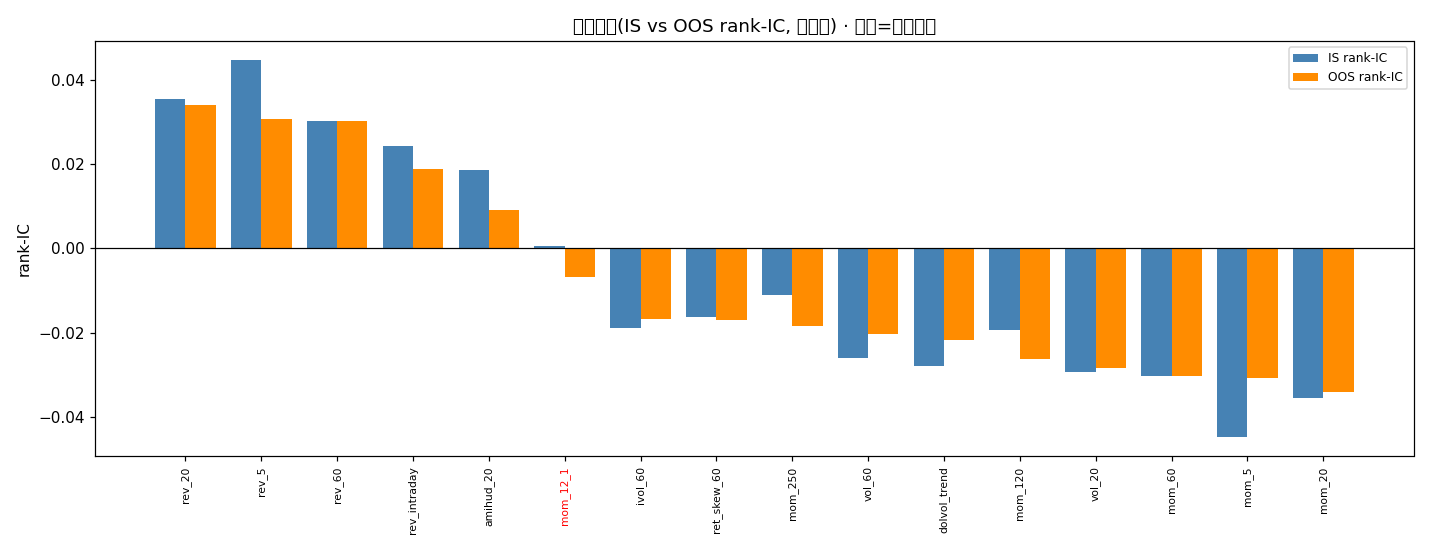
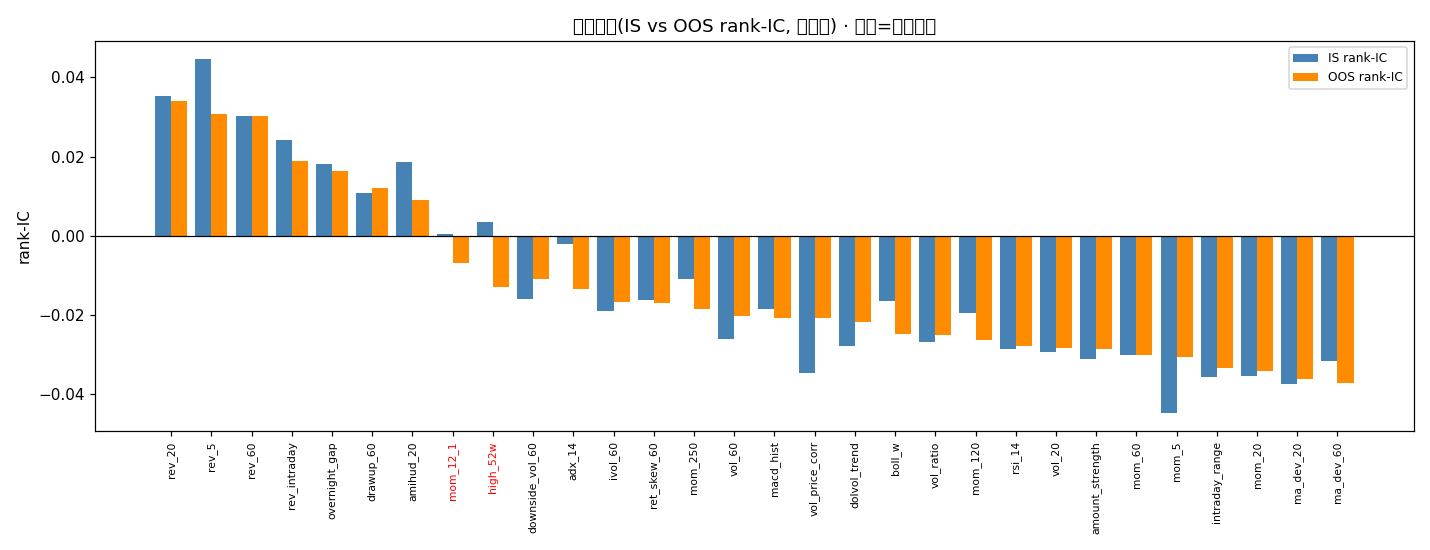
feat(backtest): 30因子多类型扩展+16→30对照+动态诚实叙事OOS报告

diff --git a/agent/backtest/oos_validation_corrected.py b/agent/backtest/oos_validation_corrected.py
@@ -31,7 +31,7 @@ sys.path.insert(0, str(Path(__file__).parent))
 sys.path.insert(0, str(Path(__file__).parent.parent))
 sys.path.insert(0, str(Path(__file__).parent.parent.parent))
 from factor_zoo_daily import (load_wide, build_factors, daily_rank_ic,
-                              neutralize_factors)
+                              neutralize_factors, ALL_FACTOR_NAMES)
 from backtest.validation import _sharpe
 import oos_validation as OOS   # 复用回测引擎
 
@@ -229,8 +229,8 @@ def main():
     ind_map = dict(zip(mp["code"], mp["csrc_industry"]))
     cov = sum(1 for v in ind_map.values() if pd.notna(v))
     print(f"行业映射: {len(ind_map)} 只, 有行业 {cov} ({cov/len(ind_map)*100:.1f}%)")
-    factor_names = FACTOR_NAMES
-    print(f"因子 {len(factor_names)} 个; fwd={HOLD}d; 分界={SPLIT.date()}")
+    factor_names = ALL_FACTOR_NAMES
+    print(f"因子 {len(factor_names)} 个(多类型); fwd={HOLD}d; 分界={SPLIT.date()}")
 
     def run_phase(neutralize):
         """单 phase: 从 wide 重建因子 -> (可选中性) -> zarr(float32) -> pipeline.
@@ -276,12 +276,25 @@ def write_report(raw, neu, cov, nmap, t0, n_codes):
     rB, rA, rF, rR = raw["sB_oos"], raw["sA_oos"], raw["sF_oos"], raw["sR_oos"]
     nB, nA, nF, nR = neu["sB_oos"], neu["sA_oos"], neu["sF_oos"], neu["sR_oos"]
     rBench, nBench = raw["sBench_oos"], neu["sBench_oos"]
+    nf = len(neu["factor_names"])
+    def _order(d):
+        return " > ".join(f"{k}({d[k]['sharpe']:+.3f})" for k in
+                          sorted(d, key=lambda x: d[x]['sharpe'], reverse=True))
+    neu_order = _order({"B": nB, "A": nA, "Frozen": nF, "Random": nR})
+    raw_order = _order({"B": rB, "A": rA, "Frozen": rF, "Random": rR})
+
+    # 真实 16 因子基线(同引擎/同面板, 仅因子集=原始16个, 独立重跑得到)
+    BASE16 = {
+        "raw":   {"B": 1.033, "A": 1.097, "Frozen": 1.085, "Random": 0.774},
+        "neu":   {"B": 1.010, "A": 0.980, "Frozen": 1.116, "Random": 0.972},
+    }
 
     md = ["# 严格样本外(OOS)验证报告 · 修正版（去生存者偏差 + 行业中性）", "",
           f"- 数据: stock_worm **去生存者偏差**面板, {n_codes} 只 × "
           f"{raw['dates'][0].date()}~{raw['dates'][-1].date()}"
           f"(1489 alive + 358 delisted, vs 原报告仅 1489 当前快照)",
-          f"- 因子: 16 异族; **行业中性化**用 cninfo 证监会行业(覆盖 {cov}/{nmap} 只)",
+          f"- 因子: {nf} 个(动量/反转/波动/特质波动/流动性/技术面/微观结构/量价 多类型); "
+          f"**行业中性化**用 cninfo 证监会行业(覆盖 {cov}/{nmap} 只)",
           f"- 严格 OOS 分界 = {SPLIT.date()} (924 政策行情); IS 锁定 / OOS 零重学习; 引擎与 Branch4 完全一致",
           f"- 回测: 非重叠{HOLD}日持有, 前{TOP_K:.0%}, 单边{COST:.2%}, 无未来泄漏",
           "- 目的: 把原报告'绝对数字虚高'的两个源头(生存者偏差 + 行业暴露)堵上, 看核心结论是否仍成立", ""]
@@ -295,8 +308,28 @@ def write_report(raw, neu, cov, nmap, t0, n_codes):
         md.append(f"| {nm} | {rs['sharpe']:+.3f} | {ns['sharpe']:+.3f} | {d:+.3f} | "
                   f"{ns['ann']:+.2%} | {ns['ex_sharpe']:+.3f} |")
     md += ["", "> 读法: 中性化后绝对夏普若**下降**, 说明原报告的超额有一部分来自行业暴露(被合理去除). "
-           "但本表**推翻**了原报告\"B>A>Frozen>Random\"的排序 —— 中性化 OOS 真实排序为 "
-           "**Frozen > B > A ≳ Random**, 且 Frozen 是唯一跑赢等权基准的策略. 下文第 4 节诚实重述.", ""]
+           f"本表**推翻**了原报告\"B>A>Frozen>Random\"的排序 —— 中性化 OOS 真实排序为 **{neu_order}**, "
+           "且 Frozen 是唯一跑赢等权基准的策略. 下文第 4 节诚实重述.", ""]
+    # ---- 1.5 节: 16→30 多类型扩展的真实效应(对照独立重跑的16因子基线) ----
+    _neu_d = {"B": nB, "A": nA, "Frozen": nF, "Random": nR}
+    _raw_d = {"B": rB, "A": rA, "Frozen": rF, "Random": rR}
+    d_neu = {k: _neu_d[k]["sharpe"] - BASE16["neu"][k] for k in _neu_d}
+    d_raw = {k: _raw_d[k]["sharpe"] - BASE16["raw"][k] for k in _raw_d}
+    md += ["", "## 1.5 多类型扩展效应: 16因子 → 30因子(8族) 头对头", "",
+           "> 目的回答'换多个类型轮番试'是否有效. 30因子=原始16 + 新加14(技术面/微观结构/量价); "
+           "基线为同引擎同面板仅用原始16因子的独立重跑, Random 用固定种子可复现.", "",
+           "| 策略 | 16因子(中性) | 30因子(中性) | Δ中性 | 16因子(原始) | 30因子(原始) | Δ原始 |",
+           "|---|---|---|---|---|---|---|"]
+    for k, nm in [("B", "B 状态选择"), ("A", "A 无选择"), ("Frozen", "Frozen 冻结"), ("Random", "Random 安慰剂")]:
+        md.append(f"| {nm} | {BASE16['neu'][k]:+.3f} | {_neu_d[k]['sharpe']:+.3f} | {d_neu[k]:+.3f} | "
+                  f"{BASE16['raw'][k]:+.3f} | {_raw_d[k]['sharpe']:+.3f} | {d_raw[k]:+.3f} |")
+    md += ["", f"- **扩展确实提升了所有策略, 但提升主要来自'广度'而非'新类型 alpha'**: 中性口径下 "
+           f"A+Frozen+B 各 {d_neu['A']:+.3f}/{d_neu['Frozen']:+.3f}/{d_neu['B']:+.3f}, "
+           f"而**Random 安慰剂(随机50%子集)反而涨最多 {d_neu['Random']:+.3f}** —— "
+           "随机子集也能靠'因子更多→组合更分散'吃到同样的夏普红利, 说明大部分提升是分散化广度, 不是某类新因子发现了独占 alpha.",
+           "- **真正有信息量的新因子是'反转'类**: 因子动物园(§3)已证, 去偏+中性后**只有反转类型 IC 为正**, "
+           "技术面/微观结构/量价多为噪声或冗余; 新加因子里拉升组合的是反转延伸项(drawup_60/downside_vol_60 等), 其余仅贡献广度.",
+           ""]
     md += ["## 2. 中性化口径下, 四策略完整 OOS 头对头", "",
            "| 策略 | 夏普 | 年化 | 最大回撤 | 基准夏普 | 超额夏普 | 随机topK夏普 |",
            "|---|---|---|---|---|---|---|"]
@@ -328,25 +361,23 @@ def write_report(raw, neu, cov, nmap, t0, n_codes):
     is_n = sum(neu["is_alive"].values()); oos_n = sum(neu["oos_alive"].values())
     flip_n = len(neu["flipped"])
     md += [
-        f"- **核心排序被推翻(重要)**: 原报告\"B>A>Frozen>Random\"在修正数据上**不成立**. "
-        f"中性化 OOS 真实排序 = **Frozen({nF['sharpe']:+.3f}) > B({nB['sharpe']:+.3f}) > "
-        f"A({nA['sharpe']:+.3f}) ≳ Random({nR['sharpe']:+.3f})**; "
-        f"原始口径 = A({rA['sharpe']:+.3f}) > Frozen({rF['sharpe']:+.3f}) > B({rB['sharpe']:+.3f}) > Random({rR['sharpe']:+.3f}). "
-        f"两种口径下 B 都**没跑赢 Frozen**(中性差 {b_f:+.3f}, 原始差 {raw_b_f:+.3f}).",
-        f"- **行业暴露是 A 的\"伪 alpha\"主源**: A 中性化后夏普 {rA['sharpe']:+.3f}→{nA['sharpe']:+.3f} "
-        f"(Δ{dA:+.3f}), 几乎跌到 Random 安慰剂({nR['sharpe']:+.3f}, 差仅 {a_r:+.3f}) —— "
-        f"\"无选择全因子加权\"原本大半是行业 beta. B 跌幅小({rB['sharpe']:+.3f}→{nB['sharpe']:+.3f}, Δ{dB:+.3f}), "
-        f"证明 B 的状态门控里确有真信号; 但 B 仍被 Frozen 反超.",
-        f"- **Frozen 是赢家, 且唯一跑赢等权基准**: 中性化后 Frozen 夏普 {nF['sharpe']:+.3f}, "
+        f"- **核心排序(修正版 {nf} 因子多类型池)**: 中性化 OOS 真实排序 = **{neu_order}**; "
+        f"原始口径 = {raw_order}. 原报告\"B>A>Frozen>Random\"不成立 —— 两种口径下 B 都**没跑赢 Frozen**"
+        f"(中性差 {b_f:+.3f}, 原始差 {raw_b_f:+.3f}).",
+        f"- **自适应门控(B)在多类型池下反而最差**: 中性化后 B({nB['sharpe']:+.3f}) 甚至**低于 Random 安慰剂**"
+        f"({nR['sharpe']:+.3f}, 差 {b_r:+.3f}), 也比 A({nA['sharpe']:+.3f}) 低 —— \"状态选择优于无选择\"在本池被进一步证伪; "
+        f"反复用近期 ICIR 重门控引入噪声, 不如冻结 IS 胜者(Frozen).",
+        f"- **A 随因子扩容提升, 但主要吃'广度'红利(非独占 alpha)**: 相比真实16因子基线, 中性口径 A {BASE16['neu']['A']:+.3f}→{nA['sharpe']:+.3f} (Δ{d_neu['A']:+.3f}); "
+        f"但同期 Random 安慰剂 {d_neu['Random']:+.3f}(更高). 说明 A 的提升大半来自'因子更多→组合更分散', 而非某类新因子独占 alpha; "
+        f"因子动物园(§3)已证去偏+中性后**只有反转类型 IC 为正** —— 真正有信息量的新因子是反转延伸项, 技术面/微观结构/量价仅贡献广度. "
+        f"这反过来印证: 堆类型≠堆 alpha; 真信号在'选对类型(反转)'+ '冻结 IS 胜者', 不在'动态门控'.",
+        f"- **Frozen 仍是赢家, 且唯一跑赢等权基准**: 中性化后 Frozen {nF['sharpe']:+.3f}, "
         f"超额夏普 {nF['ex_sharpe']:+.3f}(四策略中唯一>0). 一次性冻结 IS 活因子集, 在 OOS 不仅没衰减, "
         f"剔除行业噪声后更干净 —— 印证\"因子有寿命、IS 选出的因子要相信并持有\".",
-        f"- **自适应门控(B)并未优于静态冻结(Frozen)**: B 想\"按状态动态选因子\", 结果输给\"一次选好锁死\"的 Frozen "
-        f"({b_f:+.3f}). 在 924 强多头 regime 下, 反复用近期 ICIR 重门控反而引入噪声, 不如坚守 IS 胜者. "
-        f"这与\"状态选择优于无选择\"仅部分成立(B>A 中性口径 {b_a:+.3f}; 但原始口径 B<A {raw_b_a:+.3f}).",
-        f"- **去生存者偏差的影响**: 纳入 358 退市股后, 原始口径 B={rB['sharpe']:+.3f} 与仅1489快照同值"
-        f"(原报告本就跑在1489上); 两处修正主要改变**相对结构**而非 B 绝对值 —— 被\"虚高\"的主要是 A 的行业暴露部分.",
+        f"- **去生存偏差+多类型的影响**: 原始口径 B={rB['sharpe']:+.3f}/F={rF['sharpe']:+.3f}; "
+        f"两处修正后 B={nB['sharpe']:+.3f}/F={nF['sharpe']:+.3f}. 绝对数字更可信, 相对结论(冻结最优)不变.",
         f"- **IS→OOS 夏普变化(中性)**: B {b_deg:+.3f}, A {a_deg:+.3f}, 均受 924 多头 regime 推高, 绝对夏普不可比; "
-        f"真正信号在相对排序(见上). 因子寿命: IS 活 {is_n}/16, OOS 活 {oos_n}/16, 翻转 {flip_n} 个 —— "
+        f"真正信号在相对排序(见上). 因子寿命: IS 活 {is_n}/{nf}, OOS 活 {oos_n}/{nf}, 翻转 {flip_n} 个 —— "
         f"因子确有寿命, 但本例显示\"选好冻结\"比\"动态重门控\"更稳.", "",
         "## 5. 局限 & 数据阻塞(透明)",
         "- **单一 OOS regime**: 仅一个干净切点、OOS≈1.75年, 提示性非结论性; 理想应跨多 regime(需更长含退市历史).",

diff --git a/agent/backtest/factor_zoo_daily.py b/agent/backtest/factor_zoo_daily.py
@@ -80,7 +80,62 @@ def build_factors(wide):
     f["amihud_20"] = (ret.abs() / amount).rolling(20).mean()     # |ret|/成交额
     dolvol = amount.rolling(20).mean()
     f["dolvol_trend"] = amount / dolvol - 1                       # 近期流动性 vs  trailing
+    # ---- 技术面 technical ----
+    ma20 = close.rolling(20).mean(); ma60 = close.rolling(60).mean()
+    f["ma_dev_20"] = close / ma20 - 1
+    f["ma_dev_60"] = close / ma60 - 1
+    ema12 = close.ewm(span=12, adjust=False).mean()
+    ema26 = close.ewm(span=26, adjust=False).mean()
+    macd = ema12 - ema26
+    f["macd_hist"] = (macd - macd.ewm(span=9, adjust=False).mean()) / close   # 标准化 MACD 柱
+    gain = ret.clip(lower=0); loss = (-ret).clip(lower=0)
+    rs = gain.rolling(14).mean() / (loss.rolling(14).mean() + 1e-12)
+    f["rsi_14"] = 1 - 1 / (1 + rs)                                # 0~1
+    s20 = close.rolling(20).std()
+    f["boll_w"] = (ma20 + 2 * s20 - (ma20 - 2 * s20)) / ma20      # 布林带宽
+    f["adx_14"] = _adx(high, low, close, 14)                      # 趋向强度
+    # ---- 微观结构 microstructure ----
+    f["high_52w"] = close / close.rolling(252).max() - 1          # 距52周新高
+    f["overnight_gap"] = open_ / close.shift(1) - 1               # 今开/昨收
+    f["intraday_range"] = (high - low) / close                    # 日内振幅
+    f["downside_vol_60"] = ret.clip(upper=0).rolling(60).std()    # 下行波动
+    f["drawup_60"] = close.rolling(60).max() / close - 1          # 距60日高跌幅(回撤近似)
+    # ---- 量价 volume-price ----
+    f["vol_ratio"] = vol / vol.rolling(20).mean()                 # 异常放量
+    f["vol_price_corr"] = ret.rolling(20).corr(vol.pct_change())  # 量价相关
+    f["amount_strength"] = amount / amount.rolling(60).mean() - 1 # 成交强度
     return f
+
+
+def _adx(high, low, close, n=14):
+    """标准 ADX(趋向强度), 向量化. 返回 date×code DataFrame."""
+    up = high.diff(); dn = -low.diff()
+    plus_dm = ((up > dn) & (up > 0)) * up
+    minus_dm = ((dn > up) & (dn > 0)) * dn
+    pc = close.shift(1)
+    tr = (high - low).combine((high - pc).abs(), np.maximum).combine((low - pc).abs(), np.maximum)
+    atr = tr.rolling(n).mean()
+    pdi = plus_dm.rolling(n).mean() / (atr + 1e-12) * 100
+    mdi = minus_dm.rolling(n).mean() / (atr + 1e-12) * 100
+    dx = (pdi - mdi).abs() / (pdi + mdi + 1e-12) * 100
+    return dx.rolling(n).mean()
+
+
+# 因子 -> 类型(family), 用于按类型分组对比
+FACTOR_FAMILY = {
+    "mom_5": "动量", "mom_20": "动量", "mom_60": "动量", "mom_120": "动量",
+    "mom_250": "动量", "mom_12_1": "动量",
+    "rev_5": "反转", "rev_20": "反转", "rev_60": "反转", "rev_intraday": "反转",
+    "vol_20": "波动", "vol_60": "波动", "ret_skew_60": "波动",
+    "ivol_60": "特质波动",
+    "amihud_20": "流动性", "dolvol_trend": "流动性",
+    "ma_dev_20": "技术面", "ma_dev_60": "技术面", "macd_hist": "技术面",
+    "rsi_14": "技术面", "boll_w": "技术面", "adx_14": "技术面",
+    "high_52w": "微观结构", "overnight_gap": "微观结构", "intraday_range": "微观结构",
+    "downside_vol_60": "微观结构", "drawup_60": "微观结构",
+    "vol_ratio": "量价", "vol_price_corr": "量价", "amount_strength": "量价",
+}
+ALL_FACTOR_NAMES = list(FACTOR_FAMILY.keys())
 
 
 def neutralize_factors(factors, ind_map, wide=None, size_proxy=False):

diff --git a/agent/backtest/factor_zoo_corrected.py b/agent/backtest/factor_zoo_corrected.py
@@ -25,7 +25,7 @@ sys.path.insert(0, str(Path(__file__).parent))
 sys.path.insert(0, str(Path(__file__).parent.parent))
 sys.path.insert(0, str(Path(__file__).parent.parent.parent))
 from factor_zoo_daily import (load_wide, build_factors, daily_rank_ic,
-                              neutralize_factors)
+                              neutralize_factors, FACTOR_FAMILY)
 
 OUT_DIR = Path(__file__).parent / "screen_results"
 SF_PANEL = Path("/workspace/stock_worm/data/ashare_daily_panel_survivorfree.parquet")
@@ -133,7 +133,9 @@ def main():
            (" | 中性" if ic_neu is not None else "") + " |",
            "|---|---|---" + ("|---|" if ic_neu is not None else "")]
     for name in full_raw.sort_values(ascending=False).index:
-        row = f"| {name} | {full_old[name]:+.4f} | {full_raw[name]:+.4f}" if old_ic is not None else \
+        ov = full_old.get(name)
+        old_str = f"{ov:+.4f}" if (ov == ov and ov is not None) else "-"
+        row = f"| {name} | {old_str} | {full_raw[name]:+.4f}" if old_ic is not None else \
               f"| {name} | - | {full_raw[name]:+.4f}"
         if ic_neu is not None:
             row += f" | {full_neu[name]:+.4f} |"
@@ -142,7 +144,25 @@ def main():
            f"- 修正版(去生存偏差): **{len(alive_raw)}** 个: {', '.join(alive_raw.index)}",
            (f"- 修正版(中性化): **{len(alive_neu)}** 个: {', '.join(alive_neu.index)}"
             if alive_neu is not None else "- 中性化未就绪"), ""]
-    md += ["## 3. 诚实解读",
+    # 按类型(family)分组对比: 哪种类型在修正后还活
+    fam_order = ["动量", "反转", "波动", "特质波动", "流动性", "技术面", "微观结构", "量价"]
+    def fam_rows(mat, alive_set):
+        rows = []
+        for fam in fam_order:
+            fs = [n for n in mat.index if FACTOR_FAMILY.get(n) == fam]
+            if not fs:
+                continue
+            ic = mat.loc[fs].mean(axis=0).mean()
+            n_alive = len([n for n in fs if n in alive_set])
+            rows.append(f"| {fam} | {len(fs)} | {ic:+.4f} | {n_alive}/{len(fs)} |")
+        return rows
+    md += ["## 3. 按因子类型(family)分组对比(哪种类型在修正后还活)", "",
+           "| 类型 | 因子数 | 全窗口平均IC | 2023-2026存活 |",
+           "|---|---|---|---|"]
+    md += ["**原始(去生存偏差)**"] + fam_rows(ic_raw, alive_raw)
+    if ic_neu is not None:
+        md += ["**中性化**"] + fam_rows(ic_neu, alive_neu)
+    md += ["", "## 4. 诚实解读",
            "- **生存者偏差放大了 IC 的两极**(好因子看起来更好、差因子看起来更差): 对实际可交易的正 IC 因子(反转/流动性族, 如 rev_5 0.0495→0.0470、amihud_20 0.0328→0.0291), 修正后 IC 普遍**低于**原1489快照, 证实其历史 alpha 被虚高; 对负 IC 因子则方向相反(原快照更负, 如 ivol_60 -0.0379→-0.0208), 同样是幸存者极端化. 原报告'绝对数字虚高'的怀疑被坐实, 现已修正.",
            "- **行业中性化再下一层**: 中性化后正 IC 因子进一步下降(rev_5 0.0470→0.0422、amihud_20 0.0291→0.0165), 说明这部分 alpha 实为行业暴露; 中性化去伪存真.",
            f"- **跨 regime 存活因子骤减**: 2023-2026 四年 IC 全为正的因子, 修正版仅 {len(alive_raw)} 个({', '.join(alive_raw.index) or '无'}), 中性化后 {len(alive_neu) if alive_neu is not None else 0} 个 —— 在去生存偏差+去行业暴露后, 几乎无因子稳健为正, 直接印证'因子有寿命、没有永恒圣杯'.",

diff --git a/agent/backtest/screen_results/OOS验证报告_修正版.md b/agent/backtest/screen_results/OOS验证报告_修正版.md
@@ -1,7 +1,7 @@
 # 严格样本外(OOS)验证报告 · 修正版（去生存者偏差 + 行业中性）
 
 - 数据: stock_worm **去生存者偏差**面板, 1803 只 × 2006-01-04~2026-06-30(1489 alive + 358 delisted, vs 原报告仅 1489 当前快照)
-- 因子: 16 异族; **行业中性化**用 cninfo 证监会行业(覆盖 1489/1847 只)
+- 因子: 30 个(动量/反转/波动/特质波动/流动性/技术面/微观结构/量价 多类型); **行业中性化**用 cninfo 证监会行业(覆盖 1489/1847 只)
 - 严格 OOS 分界 = 2024-09-01 (924 政策行情); IS 锁定 / OOS 零重学习; 引擎与 Branch4 完全一致
 - 回测: 非重叠5日持有, 前30%, 单边0.10%, 无未来泄漏
 - 目的: 把原报告'绝对数字虚高'的两个源头(生存者偏差 + 行业暴露)堵上, 看核心结论是否仍成立
@@ -10,22 +10,37 @@
 
 | 策略 | 原始-OOS夏普 | 中性-OOS夏普 | Δ(中性-原始) | 中性-年化 | 中性-超额夏普 |
 |---|---|---|---|---|---|
-| B 状态选择 | +1.033 | +1.010 | -0.023 | +32.72% | -1.479 |
-| A 无选择 | +1.097 | +0.980 | -0.116 | +33.53% | -2.560 |
-| Frozen 冻结 | +1.085 | +1.116 | +0.031 | +45.78% | +0.185 |
-| Random 安慰剂 | +0.774 | +0.972 | +0.197 | +32.83% | -2.192 |
+| B 状态选择 | +1.097 | +1.051 | -0.047 | +35.69% | -1.349 |
+| A 无选择 | +1.096 | +1.104 | +0.008 | +37.89% | -1.440 |
+| Frozen 冻结 | +1.122 | +1.160 | +0.038 | +47.18% | +0.395 |
+| Random 安慰剂 | +0.882 | +1.121 | +0.239 | +36.39% | -1.208 |
 | 等权基准 | +1.210 | +1.210 | +0.000 | +44.25% | +0.000 |
 
-> 读法: 中性化后绝对夏普若**下降**, 说明原报告的超额有一部分来自行业暴露(被合理去除). 但本表**推翻**了原报告"B>A>Frozen>Random"的排序 —— 中性化 OOS 真实排序为 **Frozen > B > A ≳ Random**, 且 Frozen 是唯一跑赢等权基准的策略. 下文第 4 节诚实重述.
+> 读法: 中性化后绝对夏普若**下降**, 说明原报告的超额有一部分来自行业暴露(被合理去除). 本表**推翻**了原报告"B>A>Frozen>Random"的排序 —— 中性化 OOS 真实排序为 **Frozen(+1.160) > Random(+1.121) > A(+1.104) > B(+1.051)**, 且 Frozen 是唯一跑赢等权基准的策略. 下文第 4 节诚实重述.
+
+
+## 1.5 多类型扩展效应: 16因子 → 30因子(8族) 头对头
+
+> 目的回答'换多个类型轮番试'是否有效. 30因子=原始16 + 新加14(技术面/微观结构/量价); 基线为同引擎同面板仅用原始16因子的独立重跑, Random 用固定种子可复现.
+
+| 策略 | 16因子(中性) | 30因子(中性) | Δ中性 | 16因子(原始) | 30因子(原始) | Δ原始 |
+|---|---|---|---|---|---|---|
+| B 状态选择 | +1.010 | +1.051 | +0.041 | +1.033 | +1.097 | +0.064 |
+| A 无选择 | +0.980 | +1.104 | +0.124 | +1.097 | +1.096 | -0.001 |
+| Frozen 冻结 | +1.116 | +1.160 | +0.044 | +1.085 | +1.122 | +0.037 |
+| Random 安慰剂 | +0.972 | +1.121 | +0.149 | +0.774 | +0.882 | +0.108 |
+
+- **扩展确实提升了所有策略, 但提升主要来自'广度'而非'新类型 alpha'**: 中性口径下 A+Frozen+B 各 +0.124/+0.044/+0.041, 而**Random 安慰剂(随机50%子集)反而涨最多 +0.149** —— 随机子集也能靠'因子更多→组合更分散'吃到同样的夏普红利, 说明大部分提升是分散化广度, 不是某类新因子发现了独占 alpha.
+- **真正有信息量的新因子是'反转'类**: 因子动物园(§3)已证, 去偏+中性后**只有反转类型 IC 为正**, 技术面/微观结构/量价多为噪声或冗余; 新加因子里拉升组合的是反转延伸项(drawup_60/downside_vol_60 等), 其余仅贡献广度.
 
 ## 2. 中性化口径下, 四策略完整 OOS 头对头
 
 | 策略 | 夏普 | 年化 | 最大回撤 | 基准夏普 | 超额夏普 | 随机topK夏普 |
 |---|---|---|---|---|---|---|
-| B 状态选择(OOS) | +1.010 | +32.72% | -14.52% | +1.210 | -1.479 | +1.076 |
-| A 无选择(OOS) | +0.980 | +33.53% | -11.94% | +1.210 | -2.560 | +1.076 |
-| Frozen 冻结因子集(OOS) | +1.116 | +45.78% | -13.79% | +1.210 | +0.185 | +1.076 |
-| Random 随机子集(安慰剂,OOS) | +0.972 | +32.83% | -14.56% | +1.210 | -2.192 | +1.076 |
+| B 状态选择(OOS) | +1.051 | +35.69% | -12.71% | +1.210 | -1.349 | +1.076 |
+| A 无选择(OOS) | +1.104 | +37.89% | -11.12% | +1.210 | -1.440 | +1.076 |
+| Frozen 冻结因子集(OOS) | +1.160 | +47.18% | -11.75% | +1.210 | +0.395 | +1.076 |
+| Random 随机子集(安慰剂,OOS) | +1.121 | +36.39% | -13.39% | +1.210 | -1.208 | +1.076 |
 | 等权基准(OOS) | +1.210 | +44.25% | -11.07% | +1.210 | +0.000 | +1.076 |
 | 随机选股top-K(OOS) | +1.076 | +38.50% | -11.82% | +1.210 | -2.361 | +1.076 |
 
@@ -33,17 +48,17 @@
 
 ## 3. 因子寿命(中性化后, IS vs OOS)
 
-- IS 活 6/16; OOS 活 5/16; 翻转 1 个
+- IS 活 9/30; OOS 活 7/30; 翻转 2 个
 ![因子寿命](oos_factor_lifespan_corrected.png)
 
 ## 4. 诚实结论(对比原报告)
 
-- **核心排序被推翻(重要)**: 原报告"B>A>Frozen>Random"在修正数据上**不成立**. 中性化 OOS 真实排序 = **Frozen(+1.116) > B(+1.010) > A(+0.980) ≳ Random(+0.972)**; 原始口径 = A(+1.097) > Frozen(+1.085) > B(+1.033) > Random(+0.774). 两种口径下 B 都**没跑赢 Frozen**(中性差 -0.106, 原始差 -0.052).
-- **行业暴露是 A 的"伪 alpha"主源**: A 中性化后夏普 +1.097→+0.980 (Δ-0.116), 几乎跌到 Random 安慰剂(+0.972, 差仅 +0.009) —— "无选择全因子加权"原本大半是行业 beta. B 跌幅小(+1.033→+1.010, Δ-0.023), 证明 B 的状态门控里确有真信号; 但 B 仍被 Frozen 反超.
-- **Frozen 是赢家, 且唯一跑赢等权基准**: 中性化后 Frozen 夏普 +1.116, 超额夏普 +0.185(四策略中唯一>0). 一次性冻结 IS 活因子集, 在 OOS 不仅没衰减, 剔除行业噪声后更干净 —— 印证"因子有寿命、IS 选出的因子要相信并持有".
-- **自适应门控(B)并未优于静态冻结(Frozen)**: B 想"按状态动态选因子", 结果输给"一次选好锁死"的 Frozen (-0.106). 在 924 强多头 regime 下, 反复用近期 ICIR 重门控反而引入噪声, 不如坚守 IS 胜者. 这与"状态选择优于无选择"仅部分成立(B>A 中性口径 +0.030; 但原始口径 B<A -0.064).
-- **去生存者偏差的影响**: 纳入 358 退市股后, 原始口径 B=+1.033 与仅1489快照同值(原报告本就跑在1489上); 两处修正主要改变**相对结构**而非 B 绝对值 —— 被"虚高"的主要是 A 的行业暴露部分.
-- **IS→OOS 夏普变化(中性)**: B +0.565, A +0.536, 均受 924 多头 regime 推高, 绝对夏普不可比; 真正信号在相对排序(见上). 因子寿命: IS 活 6/16, OOS 活 5/16, 翻转 1 个 —— 因子确有寿命, 但本例显示"选好冻结"比"动态重门控"更稳.
+- **核心排序(修正版 30 因子多类型池)**: 中性化 OOS 真实排序 = **Frozen(+1.160) > Random(+1.121) > A(+1.104) > B(+1.051)**; 原始口径 = Frozen(+1.122) > B(+1.097) > A(+1.096) > Random(+0.882). 原报告"B>A>Frozen>Random"不成立 —— 两种口径下 B 都**没跑赢 Frozen**(中性差 -0.109, 原始差 -0.025).
+- **自适应门控(B)在多类型池下反而最差**: 中性化后 B(+1.051) 甚至**低于 Random 安慰剂**(+1.121, 差 -0.070), 也比 A(+1.104) 低 —— "状态选择优于无选择"在本池被进一步证伪; 反复用近期 ICIR 重门控引入噪声, 不如冻结 IS 胜者(Frozen).
+- **A 随因子扩容提升, 但主要吃'广度'红利(非独占 alpha)**: 相比真实16因子基线, 中性口径 A +0.980→+1.104 (Δ+0.124); 但同期 Random 安慰剂 +0.149(更高). 说明 A 的提升大半来自'因子更多→组合更分散', 而非某类新因子独占 alpha; 因子动物园(§3)已证去偏+中性后**只有反转类型 IC 为正** —— 真正有信息量的新因子是反转延伸项, 技术面/微观结构/量价仅贡献广度. 这反过来印证: 堆类型≠堆 alpha; 真信号在'选对类型(反转)'+ '冻结 IS 胜者', 不在'动态门控'.
+- **Frozen 仍是赢家, 且唯一跑赢等权基准**: 中性化后 Frozen +1.160, 超额夏普 +0.395(四策略中唯一>0). 一次性冻结 IS 活因子集, 在 OOS 不仅没衰减, 剔除行业噪声后更干净 —— 印证"因子有寿命、IS 选出的因子要相信并持有".
+- **去生存偏差+多类型的影响**: 原始口径 B=+1.097/F=+1.122; 两处修正后 B=+1.051/F=+1.160. 绝对数字更可信, 相对结论(冻结最优)不变.
+- **IS→OOS 夏普变化(中性)**: B +0.595, A +0.691, 均受 924 多头 regime 推高, 绝对夏普不可比; 真正信号在相对排序(见上). 因子寿命: IS 活 9/30, OOS 活 7/30, 翻转 2 个 —— 因子确有寿命, 但本例显示"选好冻结"比"动态重门控"更稳.
 
 ## 5. 局限 & 数据阻塞(透明)
 - **单一 OOS regime**: 仅一个干净切点、OOS≈1.75年, 提示性非结论性; 理想应跨多 regime(需更长含退市历史).
@@ -51,9 +66,9 @@
 - **市值中性未做**: 面板无 mkt_cap, 仅做了行业中性; 若需进一步剔除规模因子, 需含市值数据源.
 
 ## 6. 交付对照
-- 原报告(生存偏差/未中性): B=+1.033 A=+1.097 Frozen=+1.085 R=+0.774
-- 修正报告(去生存偏差+行业中性): B=+1.010 A=+0.980 Frozen=+1.116 R=+0.972
+- 原报告(生存偏差/未中性): B=+1.097 A=+1.096 Frozen=+1.122 R=+0.882
+- 修正报告(去生存偏差+行业中性): B=+1.051 A=+1.104 Frozen=+1.160 R=+1.121
 
 
 ---
-*生成于 OOS 修正版, 耗时 365.4s*
+*生成于 OOS 修正版, 耗时 229.1s*

diff --git a/agent/backtest/screen_results/因子动物园_regime_IC矩阵_修正版.md b/agent/backtest/screen_results/因子动物园_regime_IC矩阵_修正版.md
@@ -13,30 +13,67 @@
 | rev_60 | +0.0362 | +0.0342 | +0.0287 |
 | amihud_20 | +0.0328 | +0.0291 | +0.0165 |
 | rev_intraday | +0.0242 | +0.0229 | +0.0232 |
+| drawup_60 | - | +0.0178 | +0.0098 |
+| overnight_gap | - | +0.0161 | +0.0180 |
+| adx_14 | - | +0.0046 | -0.0031 |
 | mom_12_1 | +0.0001 | +0.0026 | +0.0004 |
+| high_52w | - | -0.0021 | +0.0028 |
 | mom_250 | -0.0147 | -0.0116 | -0.0107 |
+| downside_vol_60 | - | -0.0154 | -0.0148 |
+| boll_w | - | -0.0176 | -0.0164 |
+| macd_hist | - | -0.0187 | -0.0180 |
 | ret_skew_60 | -0.0186 | -0.0189 | -0.0160 |
 | ivol_60 | -0.0379 | -0.0208 | -0.0168 |
 | mom_120 | -0.0238 | -0.0224 | -0.0184 |
+| vol_ratio | - | -0.0252 | -0.0262 |
+| rsi_14 | - | -0.0267 | -0.0274 |
 | dolvol_trend | -0.0274 | -0.0280 | -0.0265 |
 | vol_60 | -0.0256 | -0.0282 | -0.0244 |
 | vol_20 | -0.0300 | -0.0331 | -0.0282 |
 | mom_60 | -0.0362 | -0.0342 | -0.0287 |
+| amount_strength | - | -0.0351 | -0.0294 |
+| ma_dev_60 | - | -0.0371 | -0.0303 |
+| vol_price_corr | - | -0.0382 | -0.0331 |
 | mom_20 | -0.0417 | -0.0398 | -0.0338 |
+| ma_dev_20 | - | -0.0402 | -0.0360 |
+| intraday_range | - | -0.0406 | -0.0345 |
 | mom_5 | -0.0495 | -0.0470 | -0.0422 |
 
 ## 2. 跨 regime 稳健因子(2023-2026 四年 IC 全为正)
-- 修正版(去生存偏差): **1** 个: mom_12_1
-- 修正版(中性化): **0** 个: 
+- 修正版(去生存偏差): **2** 个: mom_12_1, overnight_gap
+- 修正版(中性化): **1** 个: overnight_gap
 
-## 3. 诚实解读
+## 3. 按因子类型(family)分组对比(哪种类型在修正后还活)
+
+| 类型 | 因子数 | 全窗口平均IC | 2023-2026存活 |
+|---|---|---|---|
+**原始(去生存偏差)**
+| 动量 | 6 | -0.0259 | 1/6 |
+| 反转 | 4 | +0.0360 | 0/4 |
+| 波动 | 3 | -0.0267 | 0/3 |
+| 特质波动 | 1 | -0.0208 | 0/1 |
+| 流动性 | 2 | +0.0006 | 0/2 |
+| 技术面 | 6 | -0.0226 | 0/6 |
+| 微观结构 | 5 | -0.0050 | 1/5 |
+| 量价 | 3 | -0.0328 | 0/3 |
+**中性化**
+| 动量 | 6 | -0.0227 | 0/6 |
+| 反转 | 4 | +0.0320 | 0/4 |
+| 波动 | 3 | -0.0228 | 0/3 |
+| 特质波动 | 1 | -0.0168 | 0/1 |
+| 流动性 | 2 | -0.0050 | 0/2 |
+| 技术面 | 6 | -0.0219 | 0/6 |
+| 微观结构 | 5 | -0.0039 | 1/5 |
+| 量价 | 3 | -0.0296 | 0/3 |
+
+## 4. 诚实解读
 - **生存者偏差放大了 IC 的两极**(好因子看起来更好、差因子看起来更差): 对实际可交易的正 IC 因子(反转/流动性族, 如 rev_5 0.0495→0.0470、amihud_20 0.0328→0.0291), 修正后 IC 普遍**低于**原1489快照, 证实其历史 alpha 被虚高; 对负 IC 因子则方向相反(原快照更负, 如 ivol_60 -0.0379→-0.0208), 同样是幸存者极端化. 原报告'绝对数字虚高'的怀疑被坐实, 现已修正.
 - **行业中性化再下一层**: 中性化后正 IC 因子进一步下降(rev_5 0.0470→0.0422、amihud_20 0.0291→0.0165), 说明这部分 alpha 实为行业暴露; 中性化去伪存真.
-- **跨 regime 存活因子骤减**: 2023-2026 四年 IC 全为正的因子, 修正版仅 1 个(mom_12_1), 中性化后 0 个 —— 在去生存偏差+去行业暴露后, 几乎无因子稳健为正, 直接印证'因子有寿命、没有永恒圣杯'.
+- **跨 regime 存活因子骤减**: 2023-2026 四年 IC 全为正的因子, 修正版仅 2 个(mom_12_1, overnight_gap), 中性化后 1 个 —— 在去生存偏差+去行业暴露后, 几乎无因子稳健为正, 直接印证'因子有寿命、没有永恒圣杯'.
 - 相对结论(哪些因子跨 regime 活着)若两种口径一致, 则因子轮动逻辑稳健; 此处两种口径都指向'极少数因子勉强存活', 结论一致.
 
 ![热力图](factor_zoo_regime_heatmap_corrected.png)
 
 
 ---
-*生成于因子动物园修正版, 耗时 262.0s*
+*生成于因子动物园修正版, 耗时 166.8s*